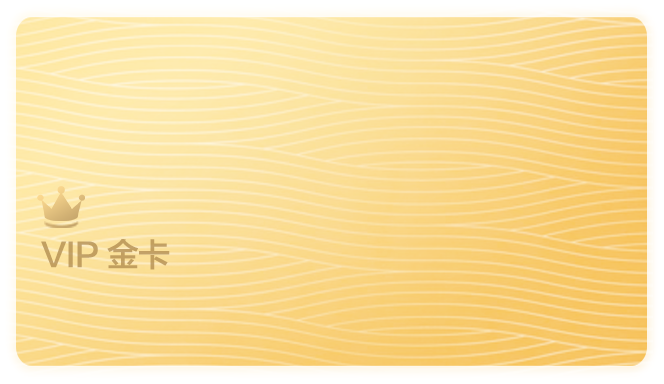
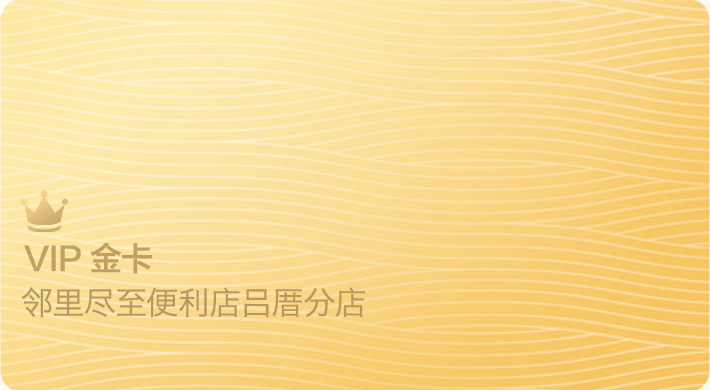
改变卡片图片
调整积分等级的适配。和卡号的安卓适配

diff --git a/pages/account/account.js b/pages/account/account.js
@@ -6,18 +6,19 @@ Page({
    */
   data: {
     storeName: '榴小莲—拒绝开口榴莲',  //暂时没用到
-    menberGrade: '普通会员',        //暂时没用到
-    memberHeadSrc: '../../image/头像.png', //会员头像图片链接
-    memberPhone: '13899998888',    //会员手机号
+    cardBackground: '../../image/cardbackground.png', //会员卡片地址
+    menberGrade: '普通会员',   //暂时没用到
+    memberHeadSrc: '../../image/head.png', //会员头像图片链接
+    memberPhone: '13899998888', //会员手机号
     menberCard: '1234567890', //会员卡号
-    discountNum: 50,           //优惠券的数量
-    integral: 50,             //会员积分
-    balance: 20.00,          //账户余额。
-    showIntegral: false,            //是否显示积分页面
-    shoppingCartHave: true,    //是否显示前往购物的小红点
-    goldWidth: 80,            //积分等级页面显示的进度表。单位是px
-    showGold: 1,               //等级表黄金的显示。
-    rankName: 'V1',            //等级的名称
+    discountNum: 50,   //优惠券的数量
+    integral: 50,  //会员积分
+    balance: 20.00,   //账户余额。
+    showIntegral: true,  //是否显示积分页面
+    shoppingCartHave: true,  //是否显示前往购物的小红点
+    goldWidth: 80, //积分等级页面显示的进度表。单位是px
+    showGold: 1,  //等级表黄金的显示。
+    rankName: 'V1',  //等级的名称
   },
 
   /**
@@ -29,11 +30,11 @@ Page({
 
     //接收积分，计算积分的等级。
     var rank = [
-      'v1群众',
-      'v2县令',
-      'v3知府',
-      'v4尚书',
-      'v5宰相',
+      'v1',
+      'v2',
+      'v3',
+      'v4',
+      'v5',
     ];
     var hyphenWidth = (wx.getSystemInfoSync().windowWidth * 0.8) / 8;
     var goldWidth, showGold;
